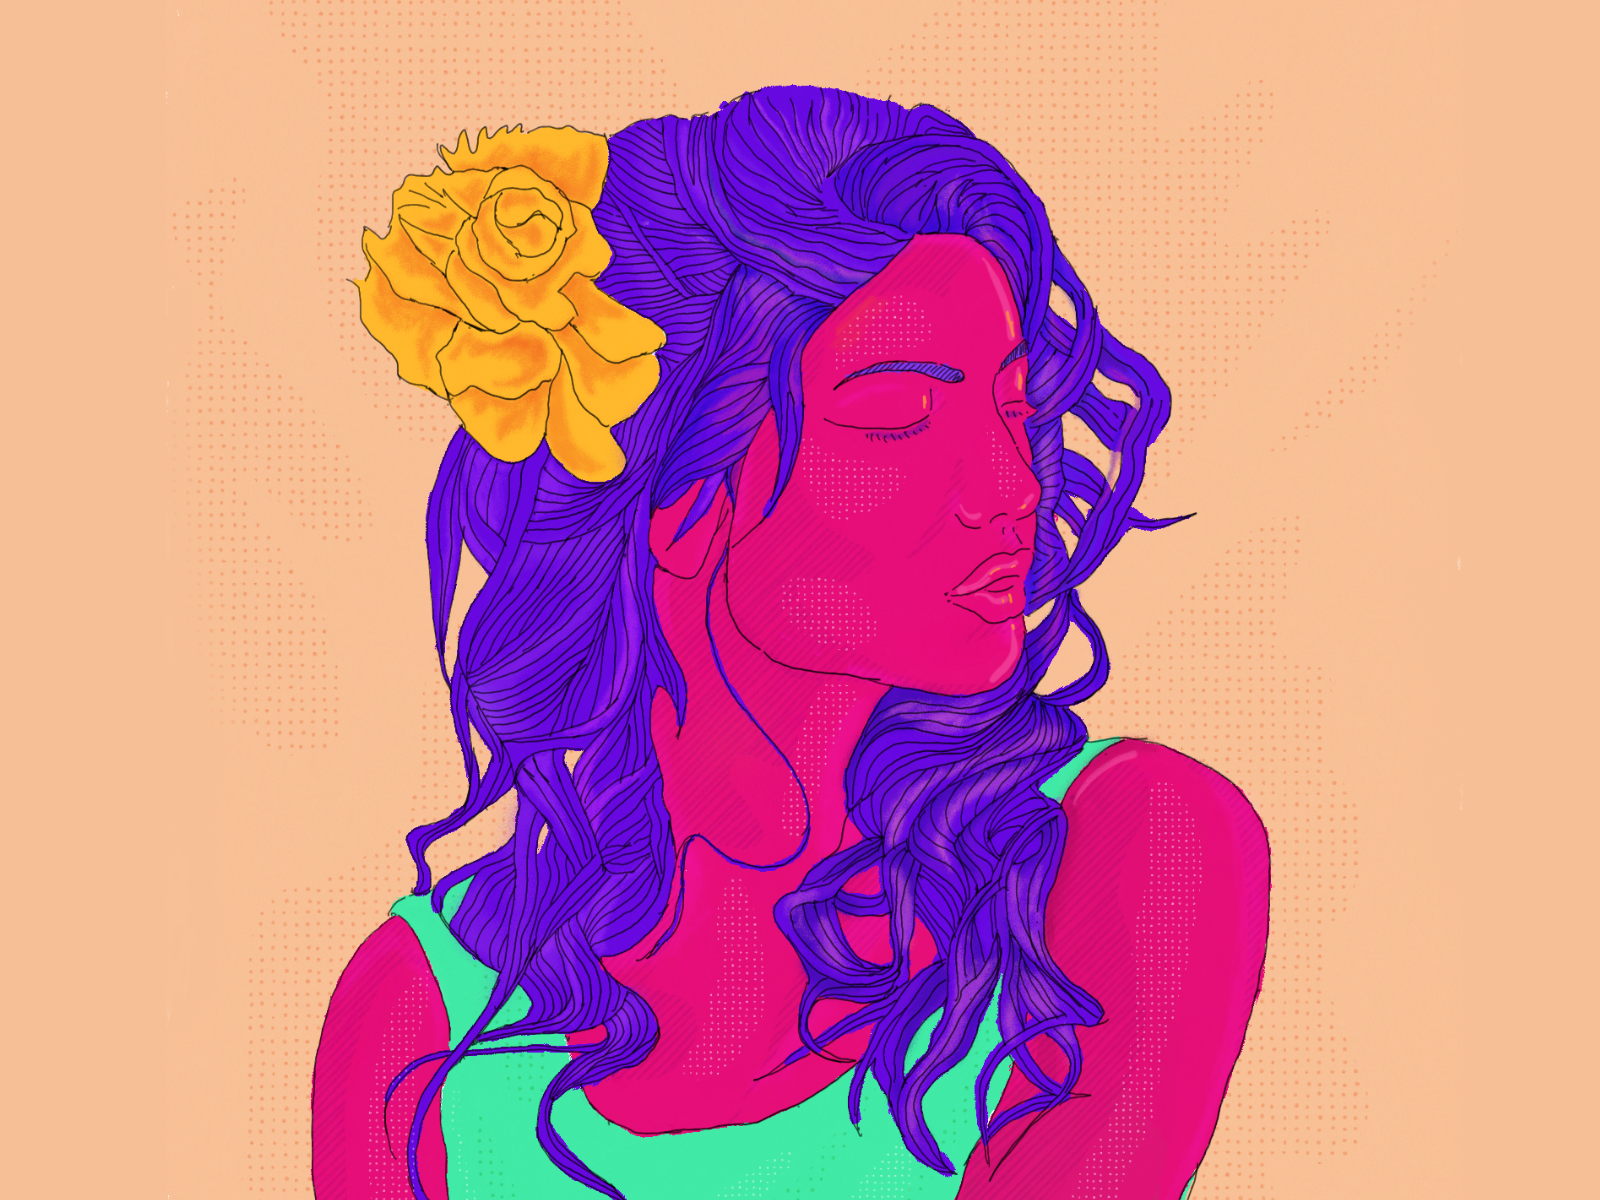
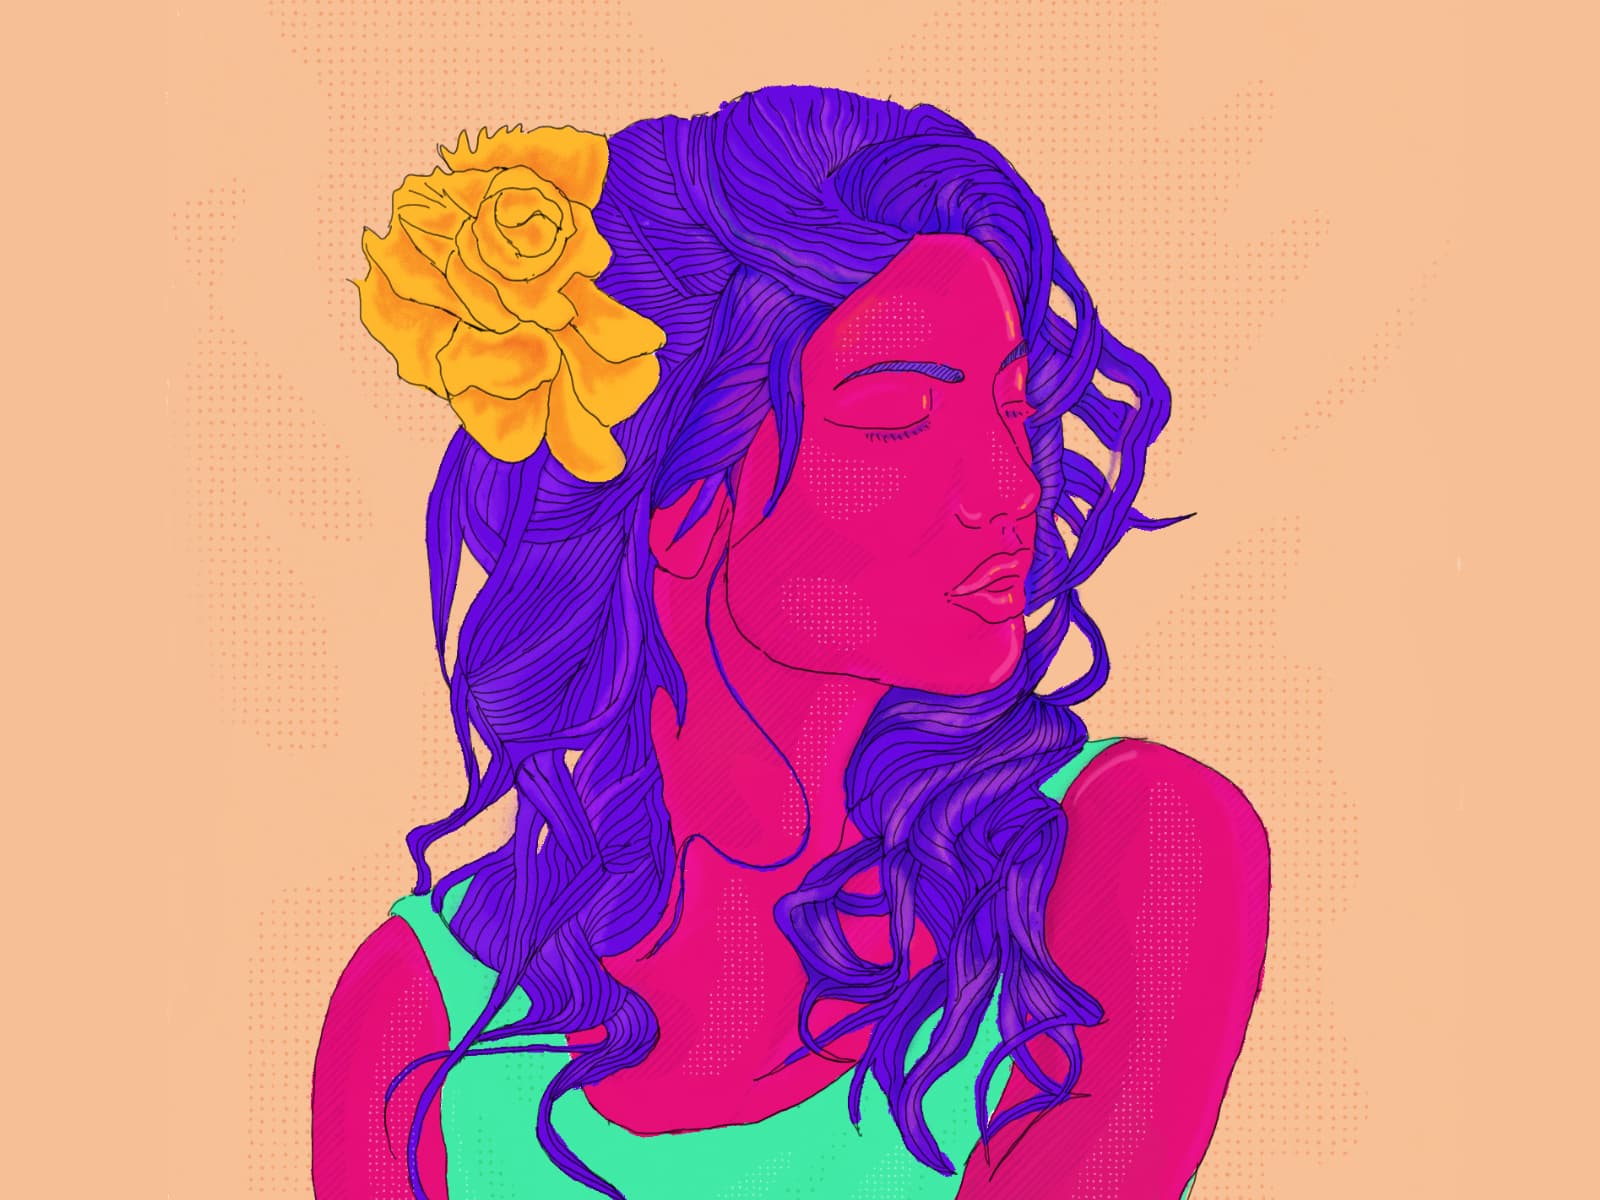
стиснув картинки

diff --git a/blog.html b/blog.html
@@ -7,6 +7,7 @@
     <title>John</title>
     <link rel="stylesheet" href="style.css">
     <link rel="stylesheet" href="https://cdnjs.cloudflare.com/ajax/libs/font-awesome/6.6.0/css/all.min.css" integrity="sha512-Kc323vGBEqzTmouAECnVceyQqyqdsSiqLQISBL29aUW4U/M7pSPA/gEUZQqv1cwx4OnYxTxve5UMg5GT6L4JJg==" crossorigin="anonymous" referrerpolicy="no-referrer" />
+    <link rel="shortcut icon" href="favicon.png" type="image/x-icon">
 </head>
 
 <body>

diff --git a/contact.html b/contact.html
@@ -7,6 +7,7 @@
     <title>John</title>
     <link rel="stylesheet" href="style.css">
     <link rel="stylesheet" href="https://cdnjs.cloudflare.com/ajax/libs/font-awesome/6.6.0/css/all.min.css" integrity="sha512-Kc323vGBEqzTmouAECnVceyQqyqdsSiqLQISBL29aUW4U/M7pSPA/gEUZQqv1cwx4OnYxTxve5UMg5GT6L4JJg==" crossorigin="anonymous" referrerpolicy="no-referrer" />
+    <link rel="shortcut icon" href="favicon.png" type="image/x-icon">
 </head>
 
 <body>

diff --git a/work.html b/work.html
@@ -7,6 +7,7 @@
     <title>John</title>
     <link rel="stylesheet" href="style.css">
     <link rel="stylesheet" href="https://cdnjs.cloudflare.com/ajax/libs/font-awesome/6.6.0/css/all.min.css" integrity="sha512-Kc323vGBEqzTmouAECnVceyQqyqdsSiqLQISBL29aUW4U/M7pSPA/gEUZQqv1cwx4OnYxTxve5UMg5GT6L4JJg==" crossorigin="anonymous" referrerpolicy="no-referrer" />
+    <link rel="shortcut icon" href="favicon.png" type="image/x-icon">
 </head>
 
 <body>

diff --git a/index.html b/index.html
@@ -32,7 +32,7 @@
                 </div>
                 <button class="button">Download Resume</button>
             </div>
-            <img src="./assets/img/image.png" alt="">
+            <img src="./assets/img/image.jpg" alt="">
 
         </div>
         <section class="recent">
